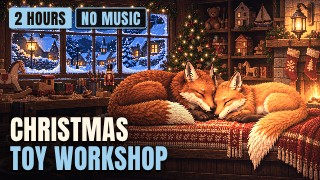
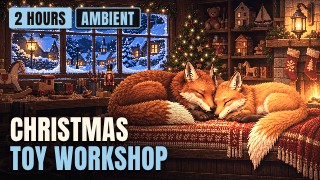
Thumbnails: the ambience badge reads AMBIENT instead of NO MUSIC
NO MUSIC read as if the video had no sound at all.

Claude-Session: https://claude.ai/code/session_01VuAxVVk4gzvV4vcstzfxY7

Changed region(s): [[0.25, 0.0278, 0.4688, 0.1667]]

diff --git a/fox-scenes/tools/thumb.html b/fox-scenes/tools/thumb.html
@@ -2,7 +2,7 @@
 <html><head><meta charset="utf-8">
 <style>
 /* Thumbnail for a fox scene: a frame of the scene; top-left, the duration badge and beside it what kind of video it is
-   (LO-FI or NO MUSIC); bottom-left, the scene name (or no name at all). The foxes and the window stay clear; YouTube's own
+   (LO-FI or AMBIENT); bottom-left, the scene name (or no name at all). The foxes and the window stay clear; YouTube's own
    time stamp sits bottom-right. Lo-fi videos use the warm accent colour and ambience videos the cold one, across the channel. */
 @font-face { font-family: "Anton"; src: url(fonts/Anton-Regular.woff2) format("woff2"); }
 html, body { margin: 0; width: 1280px; height: 720px; overflow: hidden; background: #07090d; }

diff --git a/fox-scenes/tools/thumb.js b/fox-scenes/tools/thumb.js
@@ -9,7 +9,7 @@
 // uses) and the second badge and the accent colour come from the type.
 const { chromium } = require('playwright');
 const fs = require('fs'), path = require('path');
-const KINDS = { lofi: { kind: 'LO-FI', accent: '#ffcf70' }, ambience: { kind: 'NO MUSIC', accent: '#9fd0ee' } };
+const KINDS = { lofi: { kind: 'LO-FI', accent: '#ffcf70' }, ambience: { kind: 'AMBIENT', accent: '#9fd0ee' } };
 (async () => {
   const [scene, type, frame, outDir] = process.argv.slice(2);
   if (!KINDS[type]) throw new Error('type must be lofi or ambience');

diff --git a/fox-scenes/README.md b/fox-scenes/README.md
@@ -22,7 +22,7 @@ Two types of video:
   (`tools/grade.py`), faded and lit like the surface under it.
 
 Each scene has a home type, the one that suits it best. On thumbnails lo-fi carries a warm badge reading LO-FI and ambience a
-cold one reading NO MUSIC.
+cold one reading AMBIENT ("NO MUSIC" read as if there were no sound at all).
 
 ## Where the paintings come from
 
